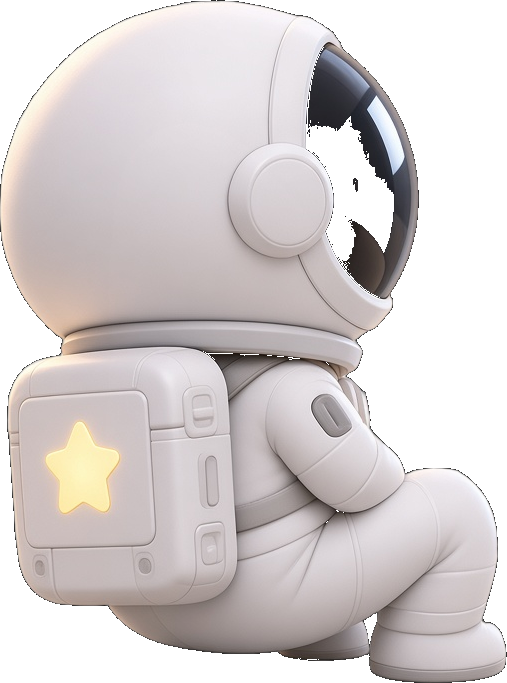
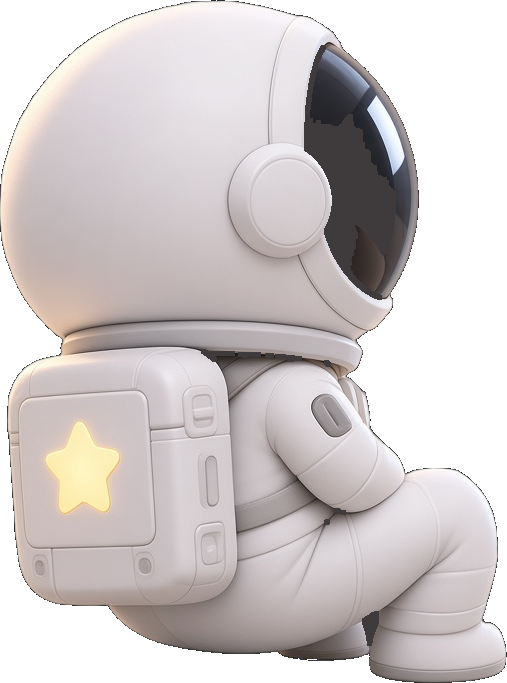
fix: dedicated up/down astronaut sprites and opaque visors
Add suit-matched vertical travel art, fill helmet visor alpha holes
with opaque black on idle/move/rest/wave, and wire Astronaut to the
new up/down textures instead of reusing left/right move.

diff --git a/src/components/cosmic/Astronaut.tsx b/src/components/cosmic/Astronaut.tsx
@@ -16,10 +16,18 @@ type AstronautProps = {
   grounded?: boolean;
 };
 
+const STATE_ORDER: AvatarState[] = [
+  "idle",
+  "move",
+  "rest",
+  "wave",
+  "up",
+  "down",
+];
+
 /**
- * Billboard sprite — same Space Lounge art for all poses.
- * Facing snaps hard (no scale.x lerp). Up/down reuse move art with a
- * subtle vertical squash/stretch — never the motion reference photos.
+ * Billboard sprite — same Space Lounge suit art for all poses.
+ * Vertical travel uses dedicated up/down sprites (not left/right move).
  */
 export function Astronaut({
   state = "idle",
@@ -33,14 +41,12 @@ export function Astronaut({
     ASTRONAUT_SRC.move,
     ASTRONAUT_SRC.rest,
     ASTRONAUT_SRC.wave,
+    ASTRONAUT_SRC.up,
+    ASTRONAUT_SRC.down,
   ]) as THREE.Texture[];
 
   const map = useMemo(() => {
-    // up/down share move art (consistent suit); idle/rest/wave as usual
-    const order: AvatarState[] = ["idle", "move", "rest", "wave"];
-    const visual: AvatarState =
-      state === "up" || state === "down" ? "move" : state;
-    const idx = order.indexOf(visual);
+    const idx = Math.max(0, STATE_ORDER.indexOf(state));
     const tex = textures[idx] ?? textures[0];
     tex.colorSpace = THREE.SRGBColorSpace;
     tex.wrapS = tex.wrapT = THREE.ClampToEdgeWrapping;
@@ -67,8 +73,7 @@ export function Astronaut({
       bob = 0;
       stepPhase.current = 0;
     } else if (state === "up" || state === "down") {
-      // Tiny vertical cue while climbing/diving — keep art upright
-      bob = state === "up" ? 0.018 : -0.012;
+      bob = state === "up" ? 0.014 : -0.01;
       stepPhase.current = 0;
     } else if (grounded) {
       if (state === "move") {
@@ -93,10 +98,8 @@ export function Astronaut({
     if (faceGroup.current) {
       faceGroup.current.rotation.x = 0;
       faceGroup.current.rotation.z = 0;
-      // Instant mirror + slight stretch for vertical travel (same sprite)
-      const sy = state === "up" ? 1.06 : state === "down" ? 0.94 : 1;
-      const sx = face * (state === "up" || state === "down" ? 0.97 : 1);
-      faceGroup.current.scale.set(sx, sy, 1);
+      // Instant mirror only — vertical art is already posed
+      faceGroup.current.scale.set(face, 1, 1);
       faceGroup.current.position.y = 0;
     }
   });
@@ -110,7 +113,8 @@ export function Astronaut({
             <meshBasicMaterial
               map={map}
               transparent
-              alphaTest={0.6}
+              // Lower than before so filled opaque visor stays solid; soft edges still cut
+              alphaTest={0.28}
               opacity={1}
               depthWrite
               depthTest

diff --git a/src/lib/constants.ts b/src/lib/constants.ts
@@ -37,9 +37,9 @@ export const ASTRONAUT_SRC: Record<AvatarState, string> = {
   move: "/assets/astronaut/astronaut-move.png",
   rest: "/assets/astronaut/astronaut-rest.png",
   wave: "/assets/astronaut/astronaut-wave.png",
-  /** Visual = move art; Astronaut applies a subtle vertical cue */
-  up: "/assets/astronaut/astronaut-move.png",
-  down: "/assets/astronaut/astronaut-move.png",
+  /** Dedicated vertical-travel poses (same suit style as idle/move) */
+  up: "/assets/astronaut/astronaut-up.png",
+  down: "/assets/astronaut/astronaut-down.png",
 };
 
 export type LoungeAction = "drift" | "still" | "wave";
